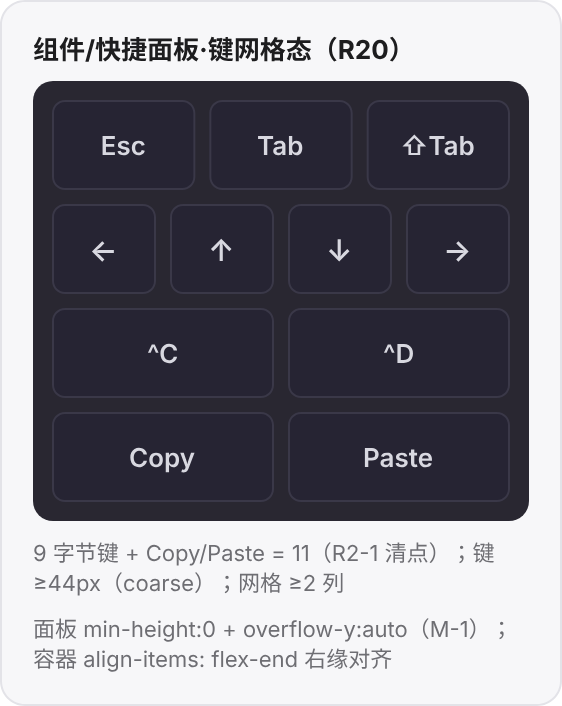
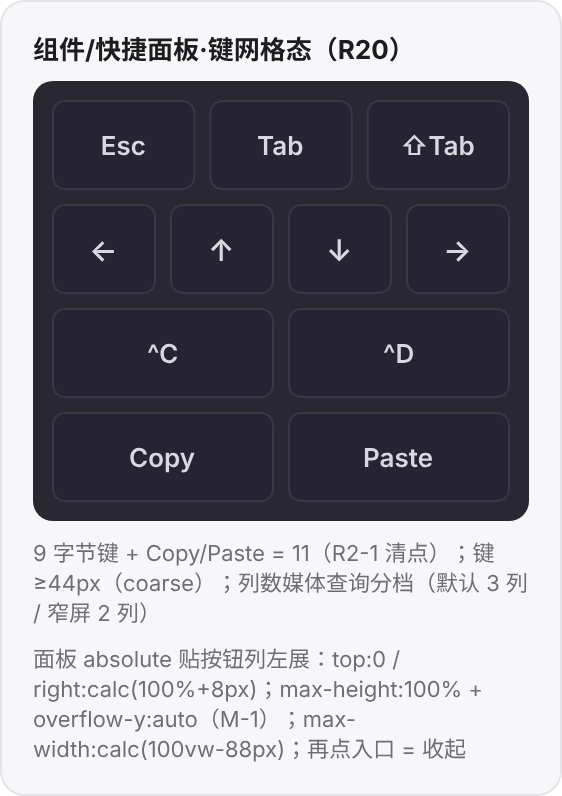
docs(plan): sync PLAN + quick-keys-panel.pen with left-expansion design review — desktop/iPhone scenes re-laid (panel left of buttons), annotations updated, 4 PNGs re-exported via pen CLI

diff --git a/docs/plans/feature-v0.6.0-terminal-quick-keys/PLAN.md b/docs/plans/feature-v0.6.0-terminal-quick-keys/PLAN.md
@@ -34,16 +34,16 @@
 - 导出画面：
   1. `notes-decisions.png` — 设计稿说明（R18–R22 决策摘要，对照 PRD 阅读）。
   2. `component-control-column.png` — 终端控制列收起态：新入口（键盘图标）在 Refresh 之上（R18）；fine 32px / coarse 44px。
-  3. `component-panel-keys.png` — 面板键网格态：9 字节键 + Copy/Paste = 11 键、≥2 列、键 ≥44px（coarse）；`min-height:0 + overflow-y:auto` 与 `align-items: flex-end` 标注。
+  3. `component-panel-keys.png` — 面板键网格态：9 字节键 + Copy/Paste = 11 键、列数媒体查询分档（默认 3 列 / 窄屏 2 列）、键 ≥44px（coarse）；左展锚定与 `max-height:100% + overflow-y:auto`、`max-width: calc(100vw - 88px)` 标注。
   4. `component-panel-paste-fallback.png` — 面板粘贴兜底态：同一 DOM 内容切换（M-2 选型 a）、在屏可见 textarea、取消切回不关面板、瞬态复位。
-  5. `scene-desktop-panel-open.png` — 桌面宽屏展开：顶右锚定 top:20/right:20、状态行带扣除（R2-2/R3-1）。
-  6. `scene-iphone-keyboard-panel.png` — iPhone 窄屏软键盘弹起：R6 钉高 + 面板超高内部滚动（M-1）、入口不被 drawer tab 遮挡。
+  5. `scene-desktop-panel-open.png` — 桌面宽屏展开：顶右锚定 + **面板贴按钮列左侧展开、顶缘对齐入口**（设计评审修订①）、容器 `bottom:20px` 状态行带扣除（R2-2/R3-1）。
+  6. `scene-iphone-keyboard-panel.png` — iPhone 窄屏软键盘弹起：R6 钉高 + 面板超高内部滚动（M-1）+ 左展 `max-width` 上限约束全键可见、入口不被 drawer tab 遮挡且不被面板遮挡（再点 = 收起）。
   7. `scene-instance-binding.png` — 实例绑定行为 A→B→A 三态（R19）+ 删实例/切 worktree/web kind 边界。
 
 ### 2.2 确认流程
 
 1. 设计稿随本目录提交，由用户评审（可对照 PRD-CHANGE 与 PNG 逐画面过）。
-2. 评审重点：与 PRD-CHANGE 决策一致性——入口 DOM 序（R18）、单一面板 DOM 与实例绑定（R19/§3.2）、尺寸纪律与状态行避让（§3.1 M-1/R2-2）、粘贴兜底态同一 DOM 切换（M-2/§3.4）、键集与字节表（§3.6）。
+2. 评审重点：与 PRD-CHANGE 决策一致性——入口 DOM 序（R18）、面板左展锚定与收起路径（设计评审修订①②，R19/§3.1/§3.2）、单一面板 DOM 与实例绑定（R19/§3.2）、尺寸纪律与状态行避让（§3.1 M-1/R2-2 + 宽度上限）、粘贴兜底态同一 DOM 切换（M-2/§3.4）、键集与字节表（§3.6）。
 3. **确认通过前，PR1 不开工**；PR2 的纯函数管线（与 DOM 形态无关的部分）可并行准备测试用例骨架。
 4. 设计稿与 PRD 冲突时：先回改 PRD-CHANGE 或设计稿之一并记录原因，再实施。
 
@@ -75,14 +75,15 @@
 
 - **改动点**（`internal/ui/static/index.html`，纯增量 DOM + 新监听器，不改既有行）：
   - 入口按钮：`#terminal-controls` 首子元素（DOM 序在 Refresh 之上），复用 `.term-ctrl-btn`，键盘 SVG 图标，英文 title（R18；仅 title 无 aria，N-3 取向；桌面同显，N-5 取向）。
-  - 容器契约：`#terminal-controls` 补 `align-items: flex-end`（§3.1 实现警戒，否则面板被 stretch 钳宽）+ `max-height: calc(100% - 20px - 20px)`（顶部偏移 + 状态行带 20px 保守常数）；三个按钮 `flex-shrink: 0`。
-  - 面板 DOM（`#terminal-controls` 子节点，单一 DOM 两内容态）：键网格态 = 11 键（Esc/Tab/⇧Tab/←↑↓→/^C/^D/Copy/Paste，≥2 列，coarse 键 ≥44px）；面板 `min-height: 0; overflow-y: auto`；粘贴兜底态 DOM（textarea + 提示 + 取消）本期先建壳、PR2 接管逻辑。
+  - 容器契约（设计评审修订①改写）：`#terminal-controls` 补 `bottom: 20px`（top/bottom 双向偏移 → 高度确定，底部扣除状态行带 20px 保守常数）+ `pointer-events: none`（三个按钮与面板各自 `pointer-events: auto`，整列空档不吞终端右侧点击/滚动/选区）。
+  - 面板 DOM（`#terminal-controls` 子节点，单一 DOM 两内容态）：`position: absolute; top: 0; right: calc(100% + 8px)` 贴按钮列左展、顶缘对齐入口；`max-height: 100%; overflow-y: auto`；`max-width: calc(100vw - 88px)`；键网格态 = 11 键（Esc/Tab/⇧Tab/←↑↓→/^C/^D/Copy/Paste，列数媒体查询分档：默认 3 列 / 窄屏 2 列——禁 `auto-fit` + shrink-to-fit 循环依赖，§3.1 警戒③；coarse 键 ≥44px）；粘贴兜底态 DOM（textarea + 提示 + 取消）本期先建壳、PR2 接管逻辑。
   - 绑定状态机：每会话 `quickKeysOpen` 旗标 + `syncQuickKeysPanel()`（读旗标 + `classList.toggle` + **隐藏时联动复位内容态**，挂 `renderWorkspace` 与开关处理器两处；幂等）（R19/§3.2、R2-3）。
+  - 收起路径（§3.2 清单）：手动收起唯一入口 = 再点入口按钮 toggle；不引入面板内 × 或点面板外关闭；字节键/粘贴发送后保持展开；面板内 Esc 只发 `\x1b` 不关面板。
   - 发送契约：`quickKeyBytes()` 纯函数（键→字节，方向键读 `term.modes.applicationCursorKeysMode` 选 SS3/CSI）；发送一律 `term.input(bytes)` 走既有 onData 闸门；按钮绑 `pointerdown`（非 click）+ `preventDefault()` 保焦点（§3.3）。
   - IME 纪律：helper textarea `compositionstart`/`compositionend` 旗标 + 按会话挂载的字节队列，`compositionend` 后向**产生组合的那个会话** flush（不重取活动会话；会话销毁随弃）（§3.3）。
 - **验收**：PRD-CHANGE §5.1 全部 6 条。
 - **测试**：
-  - `internal/ui/ui_test.go`：入口按钮 DOM 序（Refresh 之前）、面板容器在 `#terminal-controls` 内、`align-items: flex-end`、`max-height`、按钮 `flex-shrink: 0`、面板 `min-height: 0` / `overflow-y: auto`、`pointerdown` 绑定锚点与相对顺序。
+  - `internal/ui/ui_test.go`：入口按钮 DOM 序（Refresh 之前）、面板容器在 `#terminal-controls` 内、容器 `bottom: 20px` / `pointer-events: none`、按钮与面板 `pointer-events: auto`、面板 `position: absolute` / `top: 0` / `right: calc(100% + 8px)` / `max-height: 100%` / `overflow-y: auto` / `max-width: calc(100vw - 88px)`、`pointerdown` 绑定锚点与相对顺序。
   - 新 `internal/ui/testdata/quick_keys.test.mjs`（node `--test`，由 `terminal_status_test.go` 风格包装进 `go test`）：`quickKeyBytes`（两模式分支）、`deriveQuickKeysVisibility`（派生可见性 + 隐藏复位内容态）、IME 队列 flush 归属——**从真实 served 源码切片、打桩**，不断言副本。
   - 文档：D1 建立条目 + D2 一条。
 - **可独立回滚**：纯增量；Copy/Paste 两键本期为占位（点击无操作或暂隐藏，实施时定，评审确认）。
@@ -149,8 +150,8 @@
 ### PR1（R18–R20）
 
 - [ ] 入口按钮（DOM 序首位、键盘图标、英文 title）
-- [ ] `#terminal-controls` 容器契约（`align-items: flex-end`、`max-height: calc(100% - 20px - 20px)`、按钮 `flex-shrink: 0`）
-- [ ] 面板 DOM 两态壳（键网格 11 键 ≥2 列；粘贴兜底态壳）+ `min-height: 0` / `overflow-y: auto`
+- [ ] `#terminal-controls` 容器契约（`bottom: 20px`、`pointer-events: none` / 子元素 `auto`）
+- [ ] 面板 DOM 两态壳（键网格 11 键，列数媒体查询分档 3/2 列；粘贴兜底态壳）+ `position:absolute; top:0; right:calc(100% + 8px)` 左展锚定 + `max-height: 100%` / `overflow-y: auto` / `max-width: calc(100vw - 88px)`
 - [ ] `quickKeysOpen` 每会话旗标 + `syncQuickKeysPanel()`（含隐藏复位内容态，挂 `renderWorkspace` + 开关处理器）
 - [ ] `quickKeyBytes()` + `term.input()` 发送 + `pointerdown` 保焦点绑定
 - [ ] IME 组合态旗标 + 按会话队列 flush
